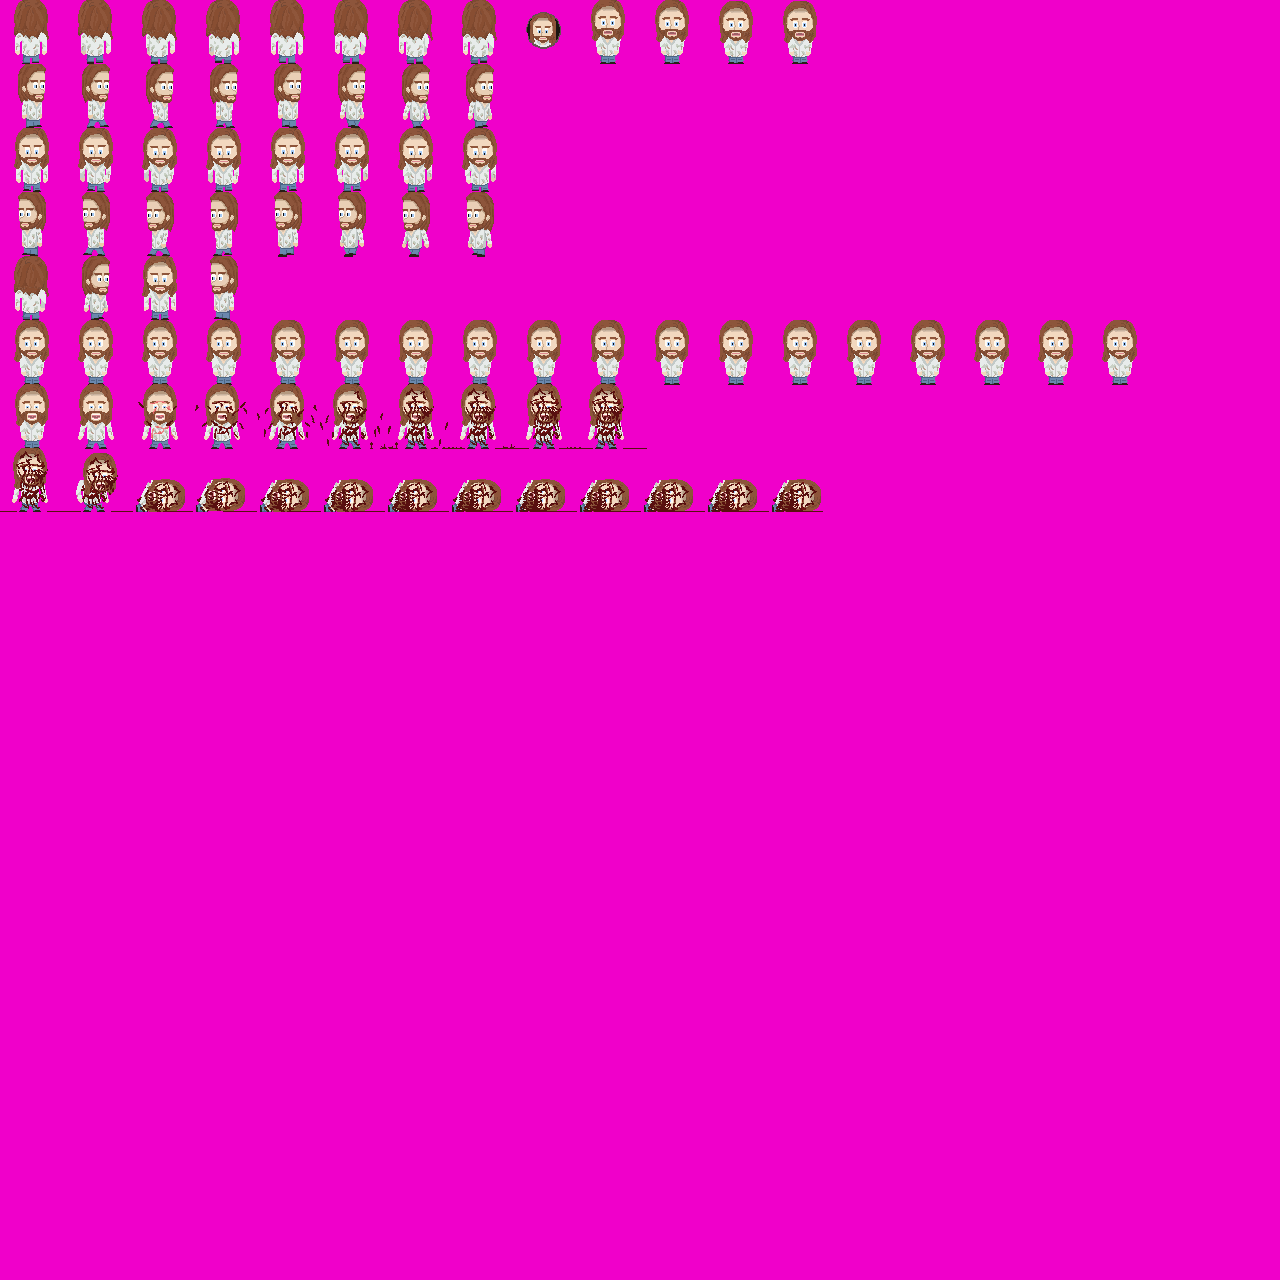
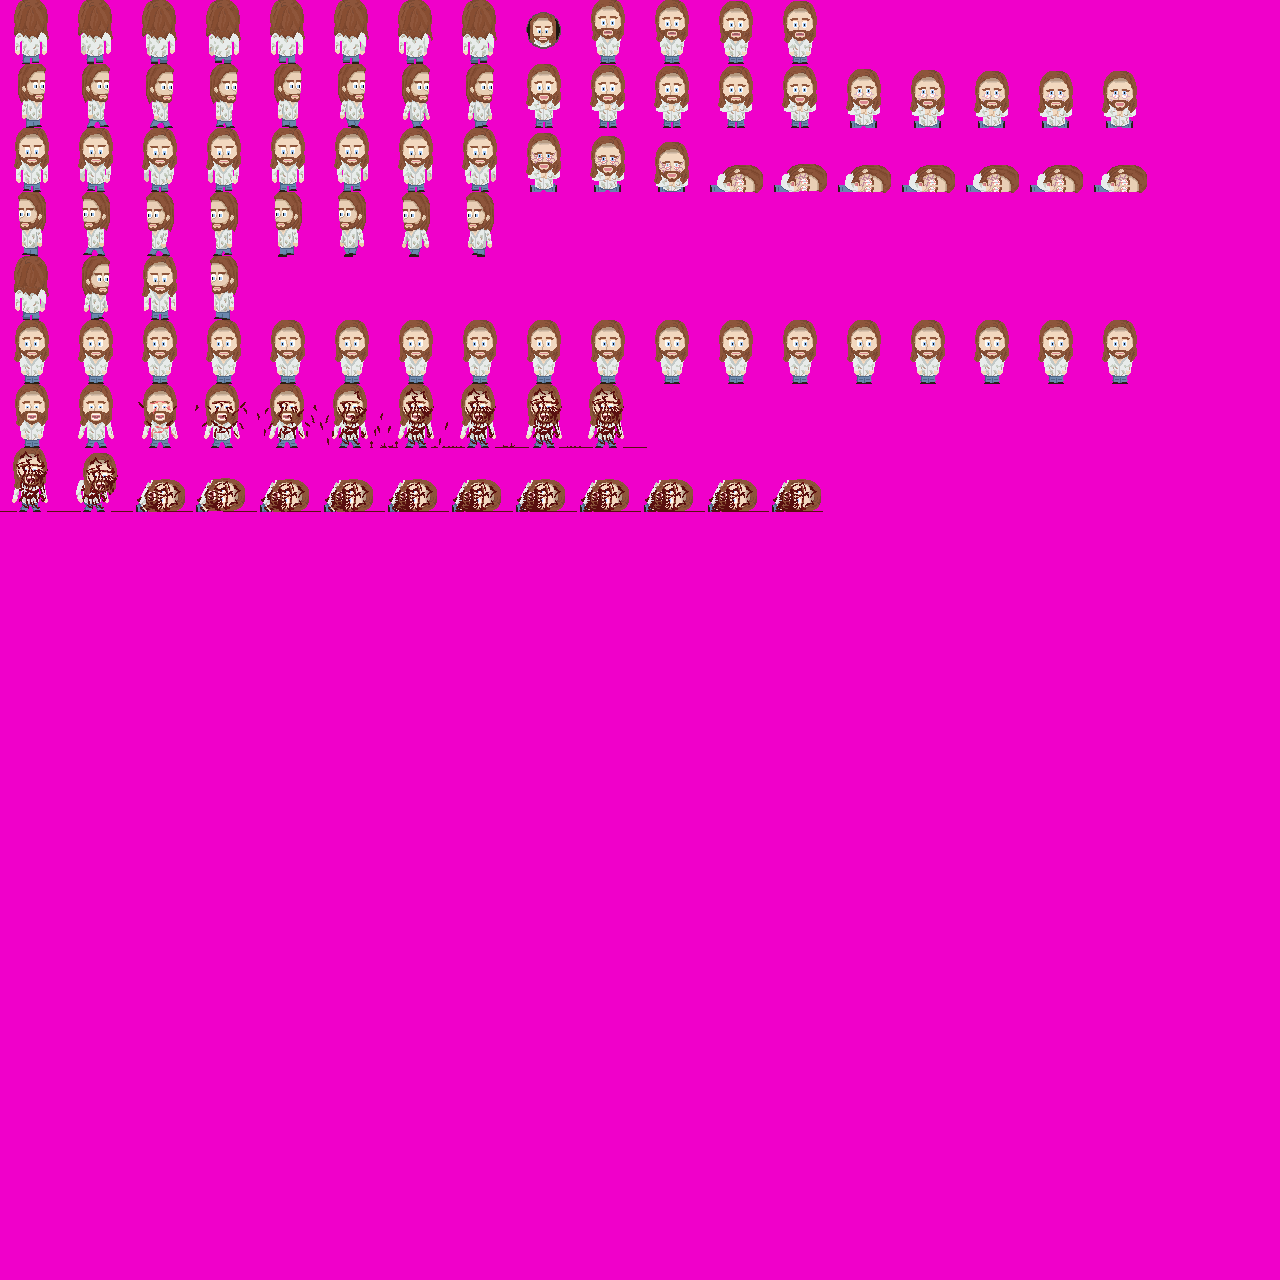
Added poison animation for Karl

Changed region(s): [[0.4062, 0.0312, 0.9062, 0.1562]]

diff --git a/src/thequizmaster/graphics/people/KarlSprites.java b/src/thequizmaster/graphics/people/KarlSprites.java
@@ -107,4 +107,27 @@ public abstract class KarlSprites {
 			new Sprite(Constants.DEFAULT_ENTITY_SIZE, 10, 7, SpriteSheet.karlSheet),
 			new Sprite(Constants.DEFAULT_ENTITY_SIZE, 11, 7, SpriteSheet.karlSheet),
 			new Sprite(Constants.DEFAULT_ENTITY_SIZE, 12, 7, SpriteSheet.karlSheet)};
+
+
+	public static Sprite[] karlPoisonDeath = new Sprite [] {
+			new Sprite(Constants.DEFAULT_ENTITY_SIZE, 8, 1, SpriteSheet.karlSheet),
+			new Sprite(Constants.DEFAULT_ENTITY_SIZE, 9, 1, SpriteSheet.karlSheet),
+			new Sprite(Constants.DEFAULT_ENTITY_SIZE, 10, 1, SpriteSheet.karlSheet),
+			new Sprite(Constants.DEFAULT_ENTITY_SIZE, 11, 1, SpriteSheet.karlSheet),
+			new Sprite(Constants.DEFAULT_ENTITY_SIZE, 12, 1, SpriteSheet.karlSheet),
+			new Sprite(Constants.DEFAULT_ENTITY_SIZE, 13, 1, SpriteSheet.karlSheet),
+			new Sprite(Constants.DEFAULT_ENTITY_SIZE, 14, 1, SpriteSheet.karlSheet),
+			new Sprite(Constants.DEFAULT_ENTITY_SIZE, 15, 1, SpriteSheet.karlSheet),
+			new Sprite(Constants.DEFAULT_ENTITY_SIZE, 16, 1, SpriteSheet.karlSheet),
+			new Sprite(Constants.DEFAULT_ENTITY_SIZE, 17, 1, SpriteSheet.karlSheet),
+			new Sprite(Constants.DEFAULT_ENTITY_SIZE, 8, 2, SpriteSheet.karlSheet),
+			new Sprite(Constants.DEFAULT_ENTITY_SIZE, 9, 2, SpriteSheet.karlSheet),
+			new Sprite(Constants.DEFAULT_ENTITY_SIZE, 10, 2, SpriteSheet.karlSheet),
+			new Sprite(Constants.DEFAULT_ENTITY_SIZE, 12, 2, SpriteSheet.karlSheet),
+			new Sprite(Constants.DEFAULT_ENTITY_SIZE, 12, 2, SpriteSheet.karlSheet),
+			new Sprite(Constants.DEFAULT_ENTITY_SIZE, 13, 2, SpriteSheet.karlSheet),
+			new Sprite(Constants.DEFAULT_ENTITY_SIZE, 14, 2, SpriteSheet.karlSheet),
+			new Sprite(Constants.DEFAULT_ENTITY_SIZE, 15, 2, SpriteSheet.karlSheet),
+			new Sprite(Constants.DEFAULT_ENTITY_SIZE, 16, 2, SpriteSheet.karlSheet),
+			new Sprite(Constants.DEFAULT_ENTITY_SIZE, 17, 2, SpriteSheet.karlSheet)};
 }

diff --git a/src/thequizmaster/entity/mob/Player.java b/src/thequizmaster/entity/mob/Player.java
@@ -6,6 +6,7 @@ import thequizmaster.graphics.Animation;
 import thequizmaster.graphics.Screen;
 import thequizmaster.graphics.Sprite;
 import thequizmaster.input.Keyboard;
+import thequizmaster.objects.Corpse;
 import thequizmaster.objects.Hitbox;
 import thequizmaster.objects.items.ChargesItem;
 import thequizmaster.objects.items.Item;
@@ -47,6 +48,8 @@ public class Player extends Mob {
 	protected Sprite[] walkingBackAnim;
 	protected Sprite[] walkingLeftAnim;
 	protected Sprite[] walkingRightAnim;
+
+	protected Sprite[] poisonAnim;
 	public Sprite[][] idleAnims;
 
 	public Sprite[] chainGameWaiting;
@@ -81,13 +84,23 @@ public class Player extends Mob {
 	}
 
 	public void update() {
-		checkIfSelectingItem();
-		checkWalkingInput();
-		checkUsingItemInput();
-		checkDroppingItemInput();
+		if(currentPlayer && !dying){
+			checkIfSelectingItem();
+			checkWalkingInput();
+			checkUsingItemInput();
+			checkDroppingItemInput();
+			updateHitboxes();
+		}
 		updateAnimation();
-		poisonPlayer();
-		updateHitboxes();
+		if(!dying){
+			poisonPlayer();
+		} else if(dying && animation == null){
+			game.addDrawObject(new Corpse(game.player.x, game.player.y, poisonAnim[17]));
+			killPlayer(poisonAnim[17]);
+			game.replaceCurrentPlayer();
+		}
+
+
 	}
 
 	public void animatePlayer(){
@@ -198,15 +211,22 @@ public class Player extends Mob {
 	}
 
 	private void poisonPlayer(){
-		if(poisonCounter >= poisonRate){
-			if(poisonLevel >= 1){
-				poisonLevel--;
+		if(poisonLevel <= 0){
+			dying = true;
+			animation = new Animation(.8, poisonAnim, this, 3, false);
+		} else {
+			if(poisonCounter >= poisonRate){
+				if(poisonLevel >= 1){
+					poisonLevel--;
+				}
+				poisonCounter = 0;
+			} else{
+				poisonCounter++;
 			}
-			poisonCounter = 0;
-		} else{
-			poisonCounter++;
 		}
 	}
+
+
 
 	private void setWalkingAnim() {
 		if(dir == 0) {

diff --git a/src/thequizmaster/gamestates/MainGame.java b/src/thequizmaster/gamestates/MainGame.java
@@ -206,6 +206,11 @@ public class MainGame extends GameState {
 			for(Player person: allPeople){
 				person.animatePlayer();
 			}
+			if(people.size() > 0){
+				for(Player person: people){
+					person.update();
+				}
+			}
 			player.update();
 			level.update();
 		}
@@ -213,7 +218,9 @@ public class MainGame extends GameState {
 		if(key.changePlayer) {
 			if(quiz == null){
 				if(menu == null){
-					swapPlayer();
+					if(!player.dying){
+						swapPlayer();
+					}
 				} else {
 					menu.swapPlayer();
 				}

diff --git a/src/thequizmaster/entity/mob/people/Karl.java b/src/thequizmaster/entity/mob/people/Karl.java
@@ -17,6 +17,7 @@ public class Karl extends Player {
         y = 74 * 32;
         questionKnowledge.put("politics", 4);
         questionKnowledge.put("history", 1);
+        poisonRate = 10;
     }
 
     public void setAnims() {
@@ -33,6 +34,8 @@ public class Karl extends Player {
         chainGameWaiting = KarlSprites.karlChainGameWaiting;
         chainGamePull = KarlSprites.karlChainGamePull;
         chainGameDeath = KarlSprites.karlChainGameDeath;
+
+        poisonAnim = KarlSprites.karlPoisonDeath;
 
     }
 
